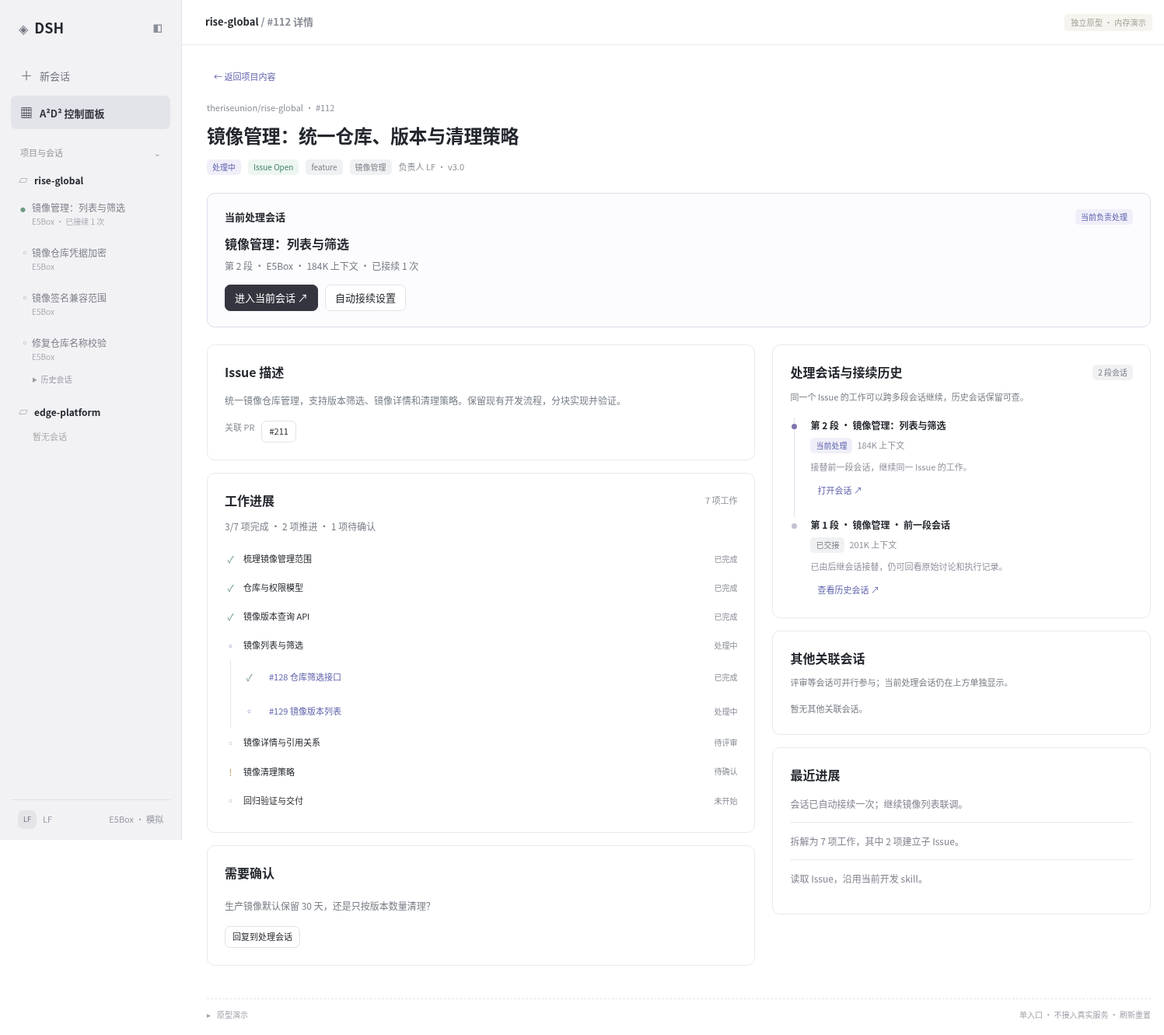
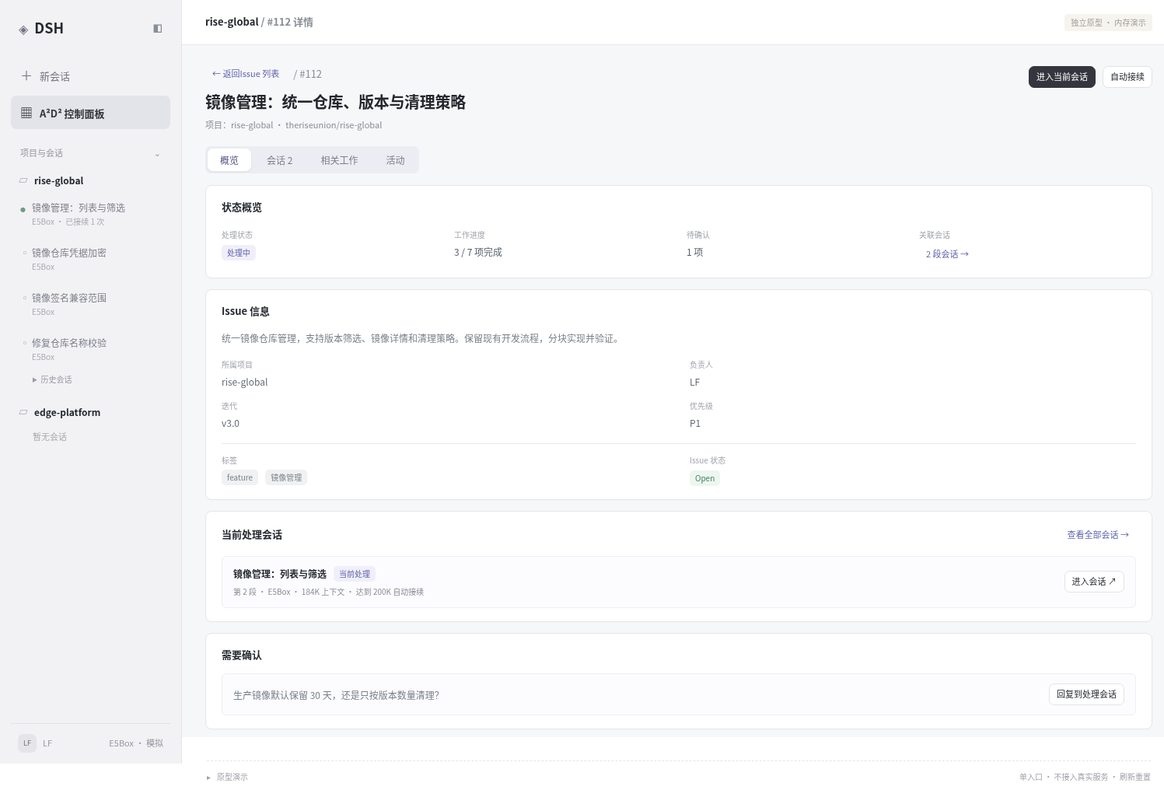
prototype: consolidate Issue details into compact tabbed sections

diff --git a/docs/prototypes/task-interaction-v3-dsh.prototype.html b/docs/prototypes/task-interaction-v3-dsh.prototype.html
@@ -5,7 +5,8 @@
 @media(max-width:1250px){.sidebar{width:205px}.main{margin-left:205px}.panel{padding:24px 24px 0}.inspector{width:340px;margin-left:18px;padding-left:18px}.optional{display:none}.topline{padding:0 24px}.search input{width:235px}.title-cell{min-width:190px}}
 @media(max-width:800px){.sidebar{position:static;width:100%;height:auto;padding:12px 15px;display:block;border-right:0;border-bottom:1px solid var(--line)}.brand{padding:0 2px;font-size:16px}.side-top{display:flex;margin:12px 0 0;gap:5px}.side-top>button{font-size:12px;padding:8px 10px}.side-top .icon-text{width:20px;font-size:14px}.session-nav,.side-label,.side-bottom{display:none}.main{margin:0;min-height:calc(100vh - 100px)}.topline{height:47px;padding:0 17px}.topline .source{display:none}.panel{padding:20px 16px 0}.page-title{margin-bottom:18px}.page-title h1{font-size:19px}.page-title p{font-size:10px;max-width:220px}.tabbar{gap:8px;margin-bottom:18px}.tabs button{padding:6px 15px}.tabbar select{max-width:130px;font-size:11px}.toolbar{padding:12px;gap:9px}.search{justify-content:flex-start;width:100%}.search input{width:100%;flex:1}.summarybar{padding:10px 13px;flex-wrap:wrap}.table-scroll table{min-width:650px}.board{display:block}.inspector{position:fixed;inset:0 0 0 auto;width:min(440px,100%);height:100dvh;max-height:none;margin:0;padding:22px;background:white;z-index:20;border-left:1px solid var(--line);box-shadow:-15px 0 60px #33313c22}.queuebar{align-items:flex-start;flex-wrap:wrap;padding:12px}.queuebar>.row{margin-left:auto}.demo{margin:23px 16px 16px}.chat-top,.task-strip{padding:13px 17px;flex-wrap:wrap}.chat{padding:25px 20px 10px}.composer{padding:0 16px 16px}.chat-top h2{font-size:14px}.toast{left:16px;right:16px;bottom:16px;max-width:none}.project-stats{gap:15px}.dialog form{padding:21px}.task-strip .row{gap:6px}.page-title .between{align-items:flex-start}.project-card{padding:16px}}
 .project-views{display:flex;gap:4px;overflow-x:auto;padding:12px 16px 0;border-bottom:1px solid var(--line);background:#fbfbfd}.project-views button{border:1px solid transparent;border-bottom:0;border-radius:7px 7px 0 0;background:transparent;color:#8b8c98;white-space:nowrap;padding:10px 13px;font-size:12px}.project-views button.active{background:white;color:#3d3e49;border-color:#e5e5eb;box-shadow:0 1px 0 white}.project-views small{margin-left:6px;color:#a5a3ad;font-size:10px}#project-label{font-size:11px;padding:8px 10px;max-width:160px}@media(max-width:800px){.project-views{padding-left:9px}.project-views button{padding:9px 10px}.toolbar .search{flex-wrap:wrap}#project-search{min-width:170px}}
-.issue-page{padding:28px 32px 12px;flex:1}.issue-heading{margin:18px 0 23px}.issue-heading h1{max-width:900px;font-size:24px}.issue-heading .row{margin-top:12px}.issue-layout{display:grid;grid-template-columns:minmax(0,1.45fr) minmax(300px,1fr);gap:22px;align-items:start}.detail-card{border:1px solid var(--line);border-radius:10px;background:white;padding:22px}.detail-card p{font-size:12px;line-height:1.9;white-space:pre-wrap}.current-work{border:1px solid #dedce9;border-radius:10px;background:#fcfbfe;padding:20px 22px;margin-bottom:22px}.current-work .current-name{font-size:16px;font-weight:600;margin:11px 0 6px}.session-timeline{margin-top:16px}.session-entry{position:relative;margin-left:5px;padding:0 0 21px 20px;border-left:1px solid #e4e1ec}.session-entry:before{content:'';position:absolute;left:-4px;top:8px;width:7px;height:7px;border-radius:50%;background:#c5c1d3}.session-entry.current:before{background:#8174ac}.session-entry:last-child{padding-bottom:0;border-left-color:transparent}.session-entry h3{font-size:12px;font-weight:550}.session-entry p{font-size:11px;margin:7px 0;color:#92909d}.session-entry .row{gap:6px}.related-session{border-top:1px solid var(--line);padding-top:12px;margin-top:12px}.issue-description{margin-top:12px;overflow-wrap:anywhere}.issue-history{padding:14px 0;border-bottom:1px solid var(--line);font-size:12px;color:#85828f}.issue-history:last-child{border:0}.issue-actions{display:flex;gap:9px;flex-wrap:wrap;margin-top:14px}@media(max-width:1100px){.issue-layout{grid-template-columns:minmax(0,1.2fr) minmax(280px,1fr)}}@media(max-width:800px){.issue-page{padding:20px 16px 0}.issue-layout{grid-template-columns:1fr}.issue-heading h1{font-size:21px}.current-work,.detail-card{padding:18px}.current-work .between{align-items:flex-start;flex-wrap:wrap}}
+.issue-page{padding:24px 30px 10px;flex:1;background:#f6f7f9}.detail-heading{display:flex;justify-content:space-between;align-items:flex-start;gap:20px;margin-bottom:17px}.detail-heading-main{min-width:0}.detail-heading h1{font-size:20px;line-height:1.5;letter-spacing:-.3px;margin:8px 0 4px}.detail-tools{justify-content:flex-end;flex-shrink:0;padding-top:3px}.detail-tabs{display:flex;gap:4px;width:max-content;max-width:100%;overflow-x:auto;background:#ebedf2;border-radius:7px;padding:3px;margin-bottom:15px}.detail-tabs button{border:0;background:none;color:#7c7f8a;padding:6px 16px;white-space:nowrap;font-size:12px}.detail-tabs button.active{background:white;color:#4d5186;box-shadow:0 1px 3px #363d5215}.detail-content{display:grid;gap:14px}.issue-section{border:1px solid #e4e6eb;border-radius:8px;background:white;padding:17px 20px;box-shadow:0 1px 2px #28313e04}.issue-section h2{font-size:13px;font-weight:620}.issue-section p{font-size:12px;line-height:1.8;color:#79808a;white-space:pre-wrap;overflow-wrap:anywhere}.issue-section label{display:block;font-size:10px;color:#a0a4ac;margin-bottom:4px}.overview-metrics{display:grid;grid-template-columns:repeat(4,1fr);gap:20px;margin-top:17px}.overview-metrics strong{font-size:12px;font-weight:500;color:#555e68}.overview-fields{display:grid;grid-template-columns:1fr 1fr;gap:14px 28px;font-size:12px;color:#656c76;margin-top:16px}.description-line{margin-top:13px}.info-bottom{display:grid;grid-template-columns:1fr 1fr;gap:28px;border-top:1px solid var(--line);padding-top:13px;margin-top:16px}.current-session-line{display:flex;justify-content:space-between;align-items:center;gap:18px;background:#fcfcfe;border:1px solid #eeeeF3;border-radius:6px;padding:12px 14px;margin-top:14px}.current-session-line b{font-size:12px;font-weight:550}.current-session-line small{display:block;font-size:10px;margin-top:5px}.current-session-line>button{flex-shrink:0}.flush-section{padding:0;overflow:hidden}.section-head{padding:16px 20px;border-bottom:1px solid var(--line)}.section-head p{font-size:11px;margin-top:5px}.detail-table td{padding:14px 19px;font-size:12px}.detail-table th{padding:10px 19px}.detail-table .current-row{background:#fbfaff}.detail-table td:last-child{white-space:nowrap}.handoff-summary{margin-top:6px;color:#9691a5;font-size:10px}.handoff-summary summary{cursor:pointer}.handoff-summary p{max-width:680px;margin-top:8px;padding:10px 12px;background:#f3f1f8;border-radius:5px;font-size:11px}.compact-detail .tree{margin-top:12px}.compact-detail .tree-row{border-bottom:1px solid #f1f2f4;padding:10px 0}.compact-detail .tree-children{margin-top:0;margin-bottom:0}@media(max-width:1000px){.detail-heading{flex-wrap:wrap}.detail-tools{justify-content:flex-start;padding:0}}@media(max-width:800px){.issue-page{padding:18px 15px 0}.detail-heading{gap:12px}.detail-heading h1{font-size:18px}.detail-tabs button{padding:6px 12px}.issue-section{padding:15px}.flush-section{padding:0}.overview-metrics{grid-template-columns:1fr 1fr;gap:14px}.overview-fields,.info-bottom{gap:12px}.current-session-line{align-items:flex-start;flex-wrap:wrap;padding:11px}.section-head{padding:15px}.detail-table{min-width:650px}.detail-content{gap:12px}}
+
 </style></head><body><div id="app"></div><dialog id="modal" class="dialog"></dialog><div id="toast" class="toast" role="status" aria-live="polite"></div>
 <script>
 /* Standalone DSH-shell prototype. Single restrained design per LF's reference.
@@ -25,7 +26,7 @@ function initial(){return {serial:300,sourceOnline:true,projects:[{id:'rise',nam
 {id:'s-04',issue:'work-119',project:'rise',name:'镜像签名兼容范围',generation:1,state:'waiting',tokens:42,role:'main',messages:[]},
 {id:'s-05',issue:'work-108',project:'rise',name:'修复仓库名称校验',generation:1,state:'finished',tokens:68,role:'main',messages:[]}
 ],queue:{enabled:false,project:'rise',mine:true,current:null,flow:'当前项目的开发 skill',handled:0}}}
-let state=initial();const ui={view:'panel',tab:'issues',project:'rise',filter:'mine',query:'',inspector:null,issue:null,issueReturn:null,session:'s-02',demo:false,projectView:'mine',projectQuery:'',projectLabel:''};
+let state=initial();const ui={view:'panel',tab:'issues',project:'rise',filter:'mine',query:'',inspector:null,issue:null,issueTab:'overview',issueReturn:null,session:'s-02',demo:false,projectView:'mine',projectQuery:'',projectLabel:''};
 const $=s=>document.querySelector(s),esc=x=>String(x??'').replace(/[&<>"']/g,c=>({'&':'&amp;','<':'&lt;','>':'&gt;','"':'&quot;',"'":'&#39;'}[c]));
 const issue=id=>state.issues.find(x=>x.id===id),project=id=>state.projects.find(x=>x.id===id),session=id=>state.sessions.find(x=>x.id===id),selectedIssue=()=>issue(ui.inspector?.type==='issue'?ui.inspector.id:session(ui.session)?.issue),nextId=p=>p+'-'+(++state.serial);
 const labels={queued:'未开始',running:'处理中',review:'待评审',blocked:'待确认',done:'已完成'},tones={queued:'',running:'purple',review:'purple',blocked:'amber',done:'green'};
@@ -38,7 +39,7 @@ function driveQueue(){const q=state.queue;if(!q.enabled)return;const current=iss
 function rotate(s){if(s.role!=='main'||s.state!=='running')return;const t=issue(s.issue),p=project(s.project);if(!p.auto||s.tokens<p.limit)return;s.state='archived';const checkpoint={goal:t.title,specification:t.description,parts:structuredClone(t.parts),decisions:[...(t.decisions||[])],question:t.question||'',recentMessages:structuredClone(s.messages.slice(-6))};const notes=checkpoint.decisions.length?' 已接受的确认：'+checkpoint.decisions.map(v=>v.replace(/[。；;]+$/,'')).join('；')+'。':'';const recent=checkpoint.recentMessages.filter(m=>m.role==='user'&&!checkpoint.decisions.includes(m.text.trim())).map(m=>m.text.replace(/[。；;]+$/,''));const next={...s,id:nextId('session'),previous:s.id,generation:s.generation+1,tokens:24,state:'running',checkpoint,messages:[],handoff:`已从第 ${s.generation} 段会话接续。${progress(t)}。${notes}${recent.length?' 近期补充：'+recent.join('；')+'。':''} 下一步：${t.question?'继续可推进的工作，保留待确认问题。':'按已确认的范围继续未完成工作。'}`};state.sessions.push(next);t.session=next.id;t.events.push(`上下文达到 ${s.tokens}K，自动接续至第 ${next.generation} 段；工作进展保持不变。`);if(ui.session===s.id)ui.session=next.id;notify('已自动接续，继续同一项工作')}
 let toastTimer;function notify(s){$('#toast').textContent=s;$('#toast').classList.add('show');clearTimeout(toastTimer);toastTimer=setTimeout(()=>$('#toast').classList.remove('show'),3000)}
 function openSession(id){ui.session=id;ui.view='chat';ui.inspector=null;render();window.scrollTo(0,0)}
-function openIssue(id){const t=issue(id);if(!t)return;if(ui.view==='panel')ui.issueReturn={tab:ui.tab,project:t.project};else if(!ui.issueReturn||ui.issueReturn.project!==t.project)ui.issueReturn={tab:'issues',project:t.project};if(ui.project!==t.project){ui.query='';ui.projectQuery='';ui.projectLabel='';ui.projectView='mine'}ui.project=t.project;ui.issue=id;ui.inspector=null;ui.view='issue';render();window.scrollTo(0,0)}
+function openIssue(id){const t=issue(id);if(!t)return;if(ui.view==='panel')ui.issueReturn={tab:ui.tab,project:t.project};else if(!ui.issueReturn||ui.issueReturn.project!==t.project)ui.issueReturn={tab:'issues',project:t.project};if(ui.project!==t.project){ui.query='';ui.projectQuery='';ui.projectLabel='';ui.projectView='mine'}if(ui.issue!==id)ui.issueTab='overview';ui.project=t.project;ui.issue=id;ui.inspector=null;ui.view='issue';render();window.scrollTo(0,0)}
 function sidebar(){return `<aside class="sidebar"><div class="brand"><span><span class="brand-mark">◈</span>DSH</span><span class="muted" style="font-size:13px">◧</span></div><div class="side-top">${btn('<span class="icon-text">＋</span>新会话','new-session')}${btn('<span class="icon-text">▦</span>A²D² 控制面板','panel',ui.view!=='chat'?'active':'')}</div><div class="side-label"><span>项目与会话</span><span>⌄</span></div><nav class="session-nav" aria-label="DSH 项目与会话">${state.projects.map(p=>`<div class="project-group"><div class="project-name"><span class="muted">▱</span>${p.name}</div>${state.sessions.filter(s=>s.project===p.id&&s.state!=='archived').map(s=>`<button class="session-item ${s.state==='running'?'live':''} ${ui.view==='chat'&&ui.session===s.id?'active':''}" data-action="session" data-id="${s.id}"><span class="session-name">${esc(s.name)}</span><small>E5Box${s.generation>1?' · 已接续 '+(s.generation-1)+' 次':''}</small></button>`).join('')||'<div style="padding:10px 28px;color:#aaa;font-size:11px">暂无会话</div>'}${state.sessions.some(s=>s.project===p.id&&s.state==='archived')?`<details class="history"><summary>历史会话</summary>${state.sessions.filter(s=>s.project===p.id&&s.state==='archived').map(s=>btn(esc(s.name)+' · 第 '+s.generation+' 段','session','session-item',false,s.id)).join('')}</details>`:''}</div>`).join('')}</nav><div class="side-bottom"><div class="avatar">LF</div><span>LF</span><span style="margin-left:auto">E5Box · 模拟</span></div></aside>`}
 function filteredIssues(){return state.issues.filter(t=>t.project===ui.project&&(ui.filter==='all'||ui.filter==='mine'&&t.mine&&t.remote!=='Closed'||ui.filter==='attention'&&(t.status==='blocked'||t.sync==='error'))).filter(t=>{let q=ui.query.toLowerCase().trim();if(q.includes('assignee:@me')&&!t.mine)return false;if(q.includes('is:open')&&t.remote==='Closed')return false;q=q.replace(/assignee:@me|is:open|is:issue/g,'').trim();return !q||(t.title+' '+ref(t)+' '+project(t.project).name).toLowerCase().includes(q)})}
 function issueTable(list){return `<div class="table-scroll"><table><thead><tr><th style="width:60px">Issue</th><th>标题 / 处理进展</th><th class="optional">负责人</th><th>Issue 状态</th><th>处理情况</th><th>会话</th></tr></thead><tbody>${list.map(t=>`<tr class="${ui.inspector?.id===t.id?'row-selected':''}"><td class="number">${ref(t)}</td><td class="title-cell">${btn(esc(t.title),'issue','link issue-title',false,t.id)}<div class="issue-sub">${esc(progress(t))}${t.sync==='error'?' · 关闭同步失败':''}</div></td><td class="optional"><span class="muted" style="font-size:11px">${t.mine?'LF':'产品团队'}</span></td><td>${t.number?badge(t.remote,t.remote==='Closed'?'purple':'green'):badge('纯本地')}</td><td>${status(t)}</td><td>${t.session?btn('↗ '+(t.status==='done'?'查看记录':'进入会话'),'session','link session-link',false,t.session):btn('开始处理','start','small',false,t.id)}</td></tr>`).join('')||'<tr><td colspan="6"><div class="empty">没有匹配的工作，可以调整项目或筛选条件。</div></td></tr>'}</tbody></table></div>`}
@@ -52,7 +53,14 @@ function partTree(t){return `<div class="tree">${t.parts.map((p,i)=>`<div class=
 function inspector(){if(!ui.inspector)return '';if(ui.inspector.type==='pr'){const p=state.prs.find(p=>p.number===Number(ui.inspector.id)),t=issue(p.issue);return `<aside class="inspector" aria-label="PR 详情"><div class="inspector-header"><span class="muted">PR #${p.number}</span>${btn('×','close-inspector','icon quiet')}</div><h2>${esc(p.title)}</h2><p>${esc(p.summary)}</p><div class="factgrid"><div><div class="mini-label">检查</div>${badge(p.checks==='passed'?'全部通过':'1 项集成检查失败',p.checks==='passed'?'green':'amber')}</div><div><div class="mini-label">评审</div>${badge(p.review==='approved'?'已批准':'等待评审')}</div></div><div class="inspector-block"><h3>关联工作</h3><div style="margin-top:9px">${btn(ref(t)+' '+esc(t.title),'issue','link',false,t.id)}</div><p style="margin-top:8px">${progress(t)}</p></div><div class="inspector-block"><h3>在 DSH 中继续</h3><p style="margin-top:8px">将 PR 摘要与检查结果带入会话，沿用项目现有评审 skill。</p><div class="actions">${btn(p.checks==='failed'?'进入会话检查失败项':'在会话中评审','review-pr','primary',p.state==='Merged',p.number)}</div></div></aside>`}
 const t=issue(ui.inspector.id),s=session(t.session),p=project(t.project);return `<aside class="inspector" aria-label="Issue 详情"><div class="inspector-header"><span class="muted">${p.name} / ${ref(t)}</span>${btn('×','close-inspector','icon quiet')}</div><h2>${esc(t.title)}</h2><div class="row" style="margin:13px 0">${status(t)}${t.number?badge('Issue '+t.remote,t.remote==='Closed'?'purple':'green'):badge('纯本地')}</div><p>${esc(t.description)}</p><div class="actions">${s?btn('↗ 进入处理会话','session','primary',false,s.id):btn('开始处理','start','primary',false,t.id)}${state.prs.filter(pr=>pr.issue===t.id).map(pr=>btn('PR #'+pr.number,'pr','',false,pr.number)).join('')}</div>${t.sync==='error'||t.sync==='pending'?`<div class="inline-note space">本地工作已验收完成，Issue 关闭${t.sync==='error'?'同步失败':'待同步'}。<br>${btn('重试同步','retry-sync','link small',false,t.id)}</div>`:''}<div class="inspector-block space"><div class="between"><h3>整体进展</h3><small class="muted">${t.parts.length?'7 项工作':'当前工作'}</small></div><p style="margin-top:7px">${progress(t)}</p>${t.parts.length?`<div class="progress-track"><span style="width:${t.parts.filter(p=>p.status==='done').length/t.parts.length*100}%"></span></div>${partTree(t)}`:''}</div>${t.question&&t.status!=='done'?`<div class="inspector-block"><h3>需要确认</h3><p style="margin-top:8px">${esc(t.question)}</p><div class="actions">${btn('回复到会话','answer','small',false,t.id)}</div></div>`:''}<div class="inspector-block"><div class="between"><h3>处理会话</h3>${btn('接续设置','context-settings','link small',false,t.project)}</div>${s?`<div style="margin-top:10px">${btn(esc(s.name),'session','link',false,s.id)}</div><p style="font-size:11px;margin-top:7px">第 ${s.generation} 段 · ${s.tokens}K 上下文<br>${p.auto?'达到 '+p.limit+'K 自动接续':'自动接续已关闭'}</p>`:'<p style="margin-top:8px">开始处理后，关联的 DSH 会话会出现在这里。</p>'}</div><div class="inspector-block"><h3>最近进展</h3><div class="activity">${t.events.slice(-3).reverse().map(e=>`<div>${esc(e)}</div>`).join('')||'<div>尚未开始处理。</div>'}</div></div></aside>`}
 function panel(){return `<div class="topline"><div class="row">${btn('×','return-chat','icon quiet')}<span class="title">A²D² 控制面板</span></div><div class="row"><span class="source">GitHub · E5Box</span><span class="mock">独立原型 · 内存演示</span></div></div><div class="panel"><div class="page-title"><h1>任务</h1><p>查看 Issue、PR 及其关联会话。</p></div><div class="tabbar"><div class="tabs" role="tablist" aria-label="工作对象">${[['issues','Issue'],['prs','PR'],['projects','项目']].map(([k,n])=>`<button role="tab" aria-selected="${ui.tab===k}" data-tab="${k}" class="${ui.tab===k?'active':''}">${n}</button>`).join('')}</div><select id="project-filter" aria-label="当前项目" required>${state.projects.map(p=>`<option value="${p.id}" ${ui.project===p.id?'selected':''}>${p.name}</option>`).join('')}</select></div>${!state.sourceOnline?'<div class="notice">GitHub 来源暂不可用 · 显示最近同步结果。正在进行的本地工作与会话保持不变。</div>':!project(ui.project).connected?'<div class="notice">此项目已断开 GitHub 协同 · 保留已有工作、会话和待同步操作。</div>':''}<div class="board"><section class="board-content">${({issues:issuesPage,prs:prsPage,projects:projectsPage}[ui.tab])()}${queuebar()}</section>${inspector()}</div></div>`}
-function issuePage(){const t=issue(ui.issue),p=project(t.project),current=session(t.session),history=state.sessions.filter(s=>s.issue===t.id&&s.role==='main').sort((a,b)=>b.generation-a.generation),others=state.sessions.filter(s=>s.issue===t.id&&s.role!=='main'),prs=state.prs.filter(pr=>pr.issue===t.id),backLabel={issues:'Issue 列表',prs:'PR 列表',projects:'项目内容'}[ui.issueReturn?.tab]||'工作列表';return `<div class="topline"><span class="title">${p.name} <span class="muted">/ ${ref(t)} 详情</span></span><span class="mock">独立原型 · 内存演示</span></div><div class="issue-page">${btn('← 返回'+backLabel,'issue-back','link small')}<div class="issue-heading"><div class="muted" style="font-size:11px;margin-bottom:7px">${p.repo} · ${ref(t)}</div><h1>${esc(t.title)}</h1><div class="row">${status(t)}${t.number?badge('Issue '+t.remote,t.remote==='Closed'?'purple':'green'):badge('纯本地')}${(t.tags||[]).map(tag=>badge(tag)).join('')}<span class="muted" style="font-size:11px">负责人 ${t.mine?'LF':'产品团队'} · ${esc(t.milestone||'未安排迭代')}</span></div></div><section class="current-work" aria-label="当前处理会话"><div class="between"><h3>${t.status==='done'?'最后处理会话':'当前处理会话'}</h3>${current?badge(current.state==='finished'?'已结束':current.state==='waiting'?'等待确认':'当前负责处理',current.state==='finished'?'':current.state==='waiting'?'amber':'purple'):badge('尚未开始')}</div>${current?`<div class="current-name">${esc(current.name)}</div><p style="font-size:12px">第 ${current.generation} 段 · E5Box · ${current.tokens}K 上下文${current.generation>1?' · 已接续 '+(current.generation-1)+' 次':''}</p><div class="issue-actions">${btn(t.status==='done'?'查看处理记录 ↗':'进入当前会话 ↗','session','primary',false,current.id)}${btn('自动接续设置','context-settings','',false,p.id)}</div>`:`<p class="space">开始处理后，当前会话和后续接替记录都会关联到这个 Issue。</p><div class="issue-actions">${btn('在 DSH 中开始处理','start','primary',false,t.id)}</div>`}</section>${t.sync==='pending'||t.sync==='error'?`<div class="notice">本地工作已验收完成；Issue 关闭${t.sync==='error'?'同步失败':'待同步'}。 ${btn('重试同步','retry-sync','link small',false,t.id)}</div>`:''}<div class="issue-layout"><div class="stack"><section class="detail-card"><h2>Issue 描述</h2><p class="issue-description">${esc(t.description)}</p>${prs.length?`<div class="issue-actions"><span class="muted" style="font-size:11px">关联 PR</span>${prs.map(pr=>btn('#'+pr.number,'pr','small',false,pr.number)).join('')}</div>`:''}</section><section class="detail-card"><div class="between"><h2>工作进展</h2><small class="muted">${t.parts.length?t.parts.length+' 项工作':'当前工作'}</small></div><p style="margin-top:10px">${progress(t)}</p>${t.parts.length?partTree(t):''}</section>${t.question&&t.status!=='done'?`<section class="detail-card"><h2>需要确认</h2><p class="space">${esc(t.question)}</p><div class="issue-actions">${btn('回复到处理会话','answer','small',false,t.id)}</div></section>`:''}</div><div class="stack"><section class="detail-card"><div class="between"><h2>处理会话与接续历史</h2>${badge(history.length+' 段会话')}</div><p style="font-size:11px;margin-top:8px">同一个 Issue 的工作可以跨多段会话继续，历史会话保留可查。</p><div class="session-timeline">${history.map(s=>`<div class="session-entry ${s.id===t.session?'current':''}"><div class="between"><h3>第 ${s.generation} 段 · ${esc(s.name)}</h3></div><div class="row" style="margin-top:7px">${badge(s.state==='archived'?'已交接':s.state==='finished'?'已结束':s.id===t.session?'当前处理':'关联记录',s.id===t.session&&s.state!=='finished'?'purple':'')}<small class="muted">${s.tokens}K 上下文</small></div><p>${s.handoff?esc(s.handoff):s.state==='archived'?'已由后继会话接替，仍可回看原始讨论和执行记录。':s.generation===1?'从这段会话开始处理该 Issue。':'接替前一段会话，继续同一 Issue 的工作。'}</p>${btn(s.state==='archived'?'查看历史会话 ↗':'打开会话 ↗','session','link small',false,s.id)}</div>`).join('')||'<p>尚无处理会话。</p>'}</div></section><section class="detail-card"><h2>其他关联会话</h2><p style="font-size:11px;margin-top:8px">评审等会话可并行参与；当前处理会话仍在上方单独显示。</p>${others.map(s=>`<div class="related-session"><div class="between"><h3>${esc(s.name)}</h3>${badge(s.state==='finished'?'已结束':s.role==='review'?'评审':'关联会话')}</div><div class="issue-actions">${btn('打开会话 ↗','session','link small',false,s.id)}${s.pr?btn('PR #'+s.pr,'pr','link small',false,s.pr):''}</div></div>`).join('')||'<p style="margin-top:13px;font-size:11px">暂无其他关联会话。</p>'}</section><section class="detail-card"><h2>最近进展</h2>${t.events.slice().reverse().map(e=>`<div class="issue-history">${esc(e)}</div>`).join('')||'<p class="space">尚未开始处理。</p>'}</section></div></div></div>`}
+function issuePage(){const t=issue(ui.issue),p=project(t.project),current=session(t.session),history=state.sessions.filter(s=>s.issue===t.id&&s.role==='main').sort((a,b)=>b.generation-a.generation),others=state.sessions.filter(s=>s.issue===t.id&&s.role!=='main'),prs=state.prs.filter(pr=>pr.issue===t.id),backLabel={issues:'Issue 列表',prs:'PR 列表',projects:'项目内容'}[ui.issueReturn?.tab]||'工作列表';const jump=(text,tab)=>`<button type="button" class="link small" data-issue-tab="${tab}">${text}</button>`;const sessionState=s=>s.state==='archived'?'已交接':s.state==='finished'?'已结束':s.state==='waiting'?'等待确认':s.id===t.session?'当前处理':'运行中';const sessionTable=(list,main)=>`<div class="table-scroll"><table class="detail-table"><thead><tr><th>${main?'段次':'用途'}</th><th>会话</th><th>状态</th><th>运行位置</th><th>上下文</th><th></th></tr></thead><tbody>${list.map(s=>`<tr data-session-row="${s.id}" class="${s.id===t.session?'current-row':''}"><td class="muted">${main?'第 '+s.generation+' 段':s.role==='review'?'PR 评审':'关联工作'}</td><td><div>${btn(esc(s.name),'session','link',false,s.id)}</div>${s.handoff?`<details class="handoff-summary"><summary>接续摘要</summary><p>${esc(s.handoff)}</p></details>`:s.state==='archived'?'<small class="muted">已由后继会话接替，历史记录保留。</small>':''}${!main&&s.pr?`<div>${btn('PR #'+s.pr,'pr','link small',false,s.pr)}</div>`:''}</td><td>${badge(sessionState(s),s.id===t.session&&s.state!=='finished'?'purple':s.state==='waiting'?'amber':'')}</td><td class="muted">E5Box</td><td class="muted">${s.tokens}K</td><td>${btn(s.state==='archived'?'查看历史 ↗':'打开会话 ↗','session','small',false,s.id)}</td></tr>`).join('')||'<tr><td colspan="6"><div class="empty">暂无关联会话。</div></td></tr>'}</tbody></table></div>`;
+let body='';
+if(ui.issueTab==='overview'){body=`<section class="issue-section"><h2>状态概览</h2><div class="overview-metrics"><div><label>处理状态</label>${status(t)}</div><div><label>工作进度</label><strong>${t.parts.length?t.parts.filter(x=>x.status==='done').length+' / '+t.parts.length+' 项完成':labels[t.status]}</strong></div><div><label>待确认</label><strong>${t.question&&t.status!=='done'?'1 项':'无'}</strong></div><div><label>关联会话</label>${jump(history.length+others.length+' 段会话 →','sessions')}</div></div></section><section class="issue-section"><h2>Issue 信息</h2><p class="description-line">${esc(t.description)}</p><div class="overview-fields"><div><label>所属项目</label><span>${p.name}</span></div><div><label>负责人</label><span>${t.mine?'LF':'产品团队'}</span></div><div><label>迭代</label><span>${esc(t.milestone||'未安排')}</span></div><div><label>优先级</label><span>${esc(t.priority||'未设置')}</span></div></div><div class="info-bottom"><div><label>标签</label><div class="row">${(t.tags||[]).map(tag=>badge(tag)).join('')||'<span class="muted">未设置</span>'}</div></div><div><label>Issue 状态</label>${t.number?badge(t.remote,t.remote==='Closed'?'purple':'green'):badge('纯本地')}</div></div></section><section class="issue-section"><div class="between"><h2>${t.status==='done'?'最后处理会话':'当前处理会话'}</h2>${jump('查看全部会话 →','sessions')}</div>${current?`<div class="current-session-line"><div><div class="row"><b>${esc(current.name)}</b>${badge(sessionState(current),current.state==='finished'?'':'purple')}</div><small class="muted">第 ${current.generation} 段 · E5Box · ${current.tokens}K 上下文 · ${p.auto?'达到 '+p.limit+'K 自动接续':'自动接续已关闭'}</small></div>${btn(t.status==='done'?'查看记录 ↗':'进入会话 ↗','session','small',false,current.id)}</div>`:'<p class="description-line">尚未开始处理，启动后会在这里显示当前会话。</p>'}</section>${t.question&&t.status!=='done'?`<section class="issue-section"><h2>需要确认</h2><div class="current-session-line"><p>${esc(t.question)}</p>${btn('回复到处理会话','answer','small',false,t.id)}</div></section>`:''}`}
+else if(ui.issueTab==='sessions'){body=`<section class="issue-section flush-section"><div class="section-head between"><div><h2>处理会话与接续历史 <span class="muted">(${history.length})</span></h2><p>同一个 Issue 按会话段次接续，当前处理入口随接任更新。</p></div>${btn('自动接续设置','context-settings','small',false,p.id)}</div>${sessionTable(history,true)}</section><section class="issue-section flush-section"><div class="section-head"><h2>其他关联会话 <span class="muted">(${others.length})</span></h2><p>评审等会话单独关联，不改变当前处理会话。</p></div>${sessionTable(others,false)}</section>`}
+else if(ui.issueTab==='related'){body=`<section class="issue-section"><div class="between"><h2>工作拆解 <span class="muted">(${t.parts.length})</span></h2><small class="muted">${progress(t)}</small></div>${t.parts.length?partTree(t):'<p class="description-line">尚无独立拆分的工作。</p>'}</section><section class="issue-section flush-section"><div class="section-head"><h2>关联 PR <span class="muted">(${prs.length})</span></h2></div><div class="table-scroll"><table class="detail-table"><thead><tr><th>PR</th><th>标题</th><th>检查</th><th>评审</th><th>状态</th></tr></thead><tbody>${prs.map(pr=>`<tr><td>${btn('#'+pr.number,'pr','link',false,pr.number)}</td><td>${esc(pr.title)}</td><td>${badge(pr.checks==='passed'?'通过':'1 项失败',pr.checks==='passed'?'green':'amber')}</td><td>${badge(pr.review==='approved'?'已批准':'待评审')}</td><td>${badge(pr.state)}</td></tr>`).join('')||'<tr><td colspan="5"><div class="empty">暂无关联 PR。</div></td></tr>'}</tbody></table></div></section>`}
+else{body=`<section class="issue-section flush-section"><div class="section-head"><h2>活动记录</h2><p>按最近发生排序，保留工作进展、确认与接续记录。</p></div><div class="table-scroll"><table class="detail-table"><thead><tr><th style="width:80px">顺序</th><th>记录</th></tr></thead><tbody>${t.events.map((text,i)=>({text,n:i+1})).reverse().map(e=>`<tr><td class="muted">${e.n}</td><td>${esc(e.text)}</td></tr>`).join('')||'<tr><td colspan="2"><div class="empty">暂无活动记录。</div></td></tr>'}</tbody></table></div></section>`}
+return `<div class="topline"><span class="title">${p.name} <span class="muted">/ ${ref(t)} 详情</span></span><span class="mock">独立原型 · 内存演示</span></div><div class="issue-page compact-detail"><header class="detail-heading"><div class="detail-heading-main"><div class="row">${btn('← 返回'+backLabel,'issue-back','link small')}<span class="muted">/ ${ref(t)}</span></div><h1>${esc(t.title)}</h1><small class="muted">项目：${p.name} · ${p.repo}</small></div><div class="row detail-tools">${current?btn(t.status==='done'?'查看处理记录':'进入当前会话','session','primary small',false,current.id):btn('开始处理','start','primary small',false,t.id)}${btn('自动接续','context-settings','small',false,p.id)}</div></header><nav class="detail-tabs" role="tablist" aria-label="Issue 详情标签">${[['overview','概览'],['sessions','会话 '+(history.length+others.length)],['related','相关工作'],['activity','活动']].map(([key,text])=>`<button type="button" role="tab" aria-selected="${ui.issueTab===key}" data-issue-tab="${key}" class="${ui.issueTab===key?'active':''}">${text}</button>`).join('')}</nav>${t.sync==='pending'||t.sync==='error'?`<div class="notice">本地工作已完成，Issue 关闭${t.sync==='error'?'同步失败':'待同步'}。 ${btn('重试同步','retry-sync','link small',false,t.id)}</div>`:''}<div class="detail-content" role="tabpanel" aria-label="${{overview:'概览',sessions:'会话',related:'相关工作',activity:'活动'}[ui.issueTab]}">${body}</div></div>`}
+
 function chat(){const s=session(ui.session);if(!s)return `<div class="panel"><h1>DSH 会话</h1><p class="space">从左侧选择会话，或开始一个新会话。</p></div>`;const t=issue(s.issue),p=project(s.project);return `<div class="topline"><span class="title">${p.name} <span class="muted">/ 会话</span></span><div class="row"><span class="source">E5Box · DSH native</span><span class="mock">会话界面示意</span></div></div><div class="chat-top"><div><h2>${esc(s.name)}</h2><small class="muted">${s.state==='archived'?'历史会话 · 已接续到后继':s.role==='review'?'PR 评审会话':'沿用当前项目 skill'} · 第 ${s.generation} 段</small></div>${btn(s.tokens+'K / '+p.limit+'K · '+(p.auto?'自动接续':'手动接续'),'context-settings','small',false,p.id)}</div>${t?`<div class="task-strip"><div class="row">${btn(ref(t)+' '+esc(t.title),'chat-issue','link',false,t.id)}${status(t)}</div>${btn(progress(t)+' ↗','chat-issue','link small',false,t.id)}</div>`:''}<div class="chat">${s.handoff?`<div class="handoff-note"><b>已接续当前工作</b><p style="margin-top:7px">${esc(s.handoff)}</p></div>`:''}<div class="message user"><div class="message-header"><div class="avatar">LF</div><span>LF</span></div><div class="message-body">${esc(t?'按项目现有的 skill 处理 '+ref(t)+'，有需要我确认的地方再告诉我。':'在这个项目中开始工作，继续使用现有 skill。')}</div></div><div class="message"><div class="message-header"><div class="avatar" style="background:#eeedf7;color:#8a83a9">◈</div><span>Assistant</span><span style="margin-left:auto">${s.state==='running'?'工作中':'已有记录'}</span></div><div class="message-body">${esc(s.role==='review'?'已关联 PR，将检查变更与失败项，并把评审结论留在当前会话。':t?.parts.length?'已整理为 '+t.parts.length+' 项工作。'+progress(t)+'。\n\n'+(t.status==='done'?'这项工作已验收完成，处理记录已保留。':t.question?'有一处需要确认，其余工作可以继续推进。':'继续按已确认的范围推进，展开工作可查看每一项进展。'):t?.status==='review'?'实现已提交，等待评审结果。关联 PR 与处理进展可以从上方工作入口查看。':t?.status==='blocked'?'当前有一项范围需要确认，回复后可以继续。':t?.status==='done'?'这项工作已经验收完成，处理记录已保留。':'已接收工作，将按项目现有开发流程继续。')}</div>${t?.parts.length?`<div class="toolbox"><div class="between"><span>✓ 最近执行</span><span>结果已记录</span></div><code>检查镜像列表与仓库筛选的集成结果</code><div style="margin-top:10px">${btn('查看 7 项工作及子 Issue →','chat-issue','link small',false,t.id)}</div></div>`:''}</div>${s.messages.map(m=>`<div class="message ${m.role==='user'?'user':''}"><div class="message-header"><div class="avatar">${m.role==='user'?'LF':'◈'}</div>${m.role==='user'?'LF':'Assistant'}</div><div class="message-body">${esc(m.text)}</div></div>`).join('')}</div><div class="composer"><form id="chat-form" class="composer-box"><textarea id="chat-input" name="message" aria-label="发送给当前会话" placeholder="继续对话，或补充当前工作的要求…" ${s.state==='archived'?'disabled':''}></textarea><div class="composer-foot"><span>DSH native · 当前项目 · ${s.state==='archived'?'历史只读':'仅模拟消息'}</span><div class="row">${t?btn('当前进度','ask-progress','quiet small',s.state==='archived'):''}<button class="primary small" type="submit" ${s.state==='archived'?'disabled':''}>发送 ↑</button></div></div></form></div>`}
 function demo(){return `<details class="demo" id="demo" ${ui.demo?'open':''}><summary>原型演示<span style="margin-left:auto">单入口 · 不接入真实服务 · 刷新重置</span></summary><div class="demo-buttons">${btn('收到一条新 Issue','demo-new')}${btn('模拟上下文增长 +30K','demo-context')}${btn('收到当前工作验收通过','demo-complete')}${btn(state.sourceOnline?'模拟来源不可用':'恢复来源连接','demo-network')}${btn('恢复初始示例','demo-reset')}</div><p>这些按钮用于模拟事件；日常操作仍从 Issue、PR、项目及 DSH 会话进入。工作完成须有真实验收，本原型仅注入验收已通过的结果。</p></details>`}
 function render(){const focus=document.activeElement?.id,pos=document.activeElement?.selectionStart;$('#app').innerHTML=sidebar()+`<main class="main">${ui.view==='panel'?panel():ui.view==='issue'?issuePage():chat()}${demo()}</main>`;$('#demo').addEventListener('toggle',e=>ui.demo=e.target.open);if(['issue-search','project-search'].includes(focus)){const input=document.getElementById(focus);input?.focus();input?.setSelectionRange(pos,pos)}}
@@ -80,9 +88,9 @@ const handlers={
 'demo-context':()=>{const t=activeWork(),s=session(t?.session);if(!s||s.state!=='running'){notify('请先选择一个正在处理的工作会话');return}s.tokens+=30;rotate(s);render();if(s.state!=='archived')notify('上下文已增加到 '+s.tokens+'K，尚未触发接续')},
 'demo-complete':()=>{const t=activeWork();if(!t||t.status!=='running'){notify('当前没有正在处理的工作');return}t.status='done';t.question='';t.parts.forEach(p=>{p.status='done';p.children?.forEach(c=>c.status='done')});state.sessions.filter(s=>s.issue===t.id&&s.state!=='archived').forEach(s=>s.state='finished');t.sync=t.number?(state.sourceOnline&&project(t.project).connected?'pending':'error'):null;t.events.push('模拟收到验收通过：工作完成，处理会话收口。');if(state.queue.enabled&&state.queue.current===t.id)state.queue.handled++;driveQueue();render();notify(ref(t)+' 已完成'+(state.queue.enabled?'，继续检查下一项工作':''))},
 'demo-new':()=>{const p=project(ui.project);if(!state.sourceOnline||!p.connected){notify('来源不可用，暂不能收到新的远端 Issue');return}const n=++state.serial;state.issues.push({id:'work-new-'+n,number:n,project:p.id,title:'修复镜像标签筛选结果不一致',mine:true,remote:'Open',status:'queued',session:null,sync:'synced',pr:null,description:'模拟从既定来源收到的一项新 Bug。',tags:['bug'],milestone:p.milestone,priority:'P1',parts:[],events:['从来源列表发现新 Issue。']});driveQueue();render();notify('发现一条新 Issue，已按规则加入工作列表')},
-'demo-reset':()=>{state=initial();Object.assign(ui,{view:'panel',tab:'issues',project:'rise',filter:'mine',query:'',inspector:null,issue:null,issueReturn:null,session:'s-02',projectView:'mine',projectQuery:'',projectLabel:''});render();notify('已恢复初始示例')},'close-modal':closeModal
+'demo-reset':()=>{state=initial();Object.assign(ui,{view:'panel',tab:'issues',project:'rise',filter:'mine',query:'',inspector:null,issue:null,issueTab:'overview',issueReturn:null,session:'s-02',projectView:'mine',projectQuery:'',projectLabel:''});render();notify('已恢复初始示例')},'close-modal':closeModal
 };
-document.addEventListener('click',e=>{const b=e.target.closest('button');if(!b||b.disabled)return;if(b.dataset.tab){ui.tab=b.dataset.tab;ui.filter='mine';ui.inspector=null;ui.projectView='mine';ui.projectQuery='';ui.projectLabel='';render()}else if(b.dataset.projectView){ui.projectView=b.dataset.projectView;ui.inspector=null;render()}else if(b.dataset.filter){ui.filter=b.dataset.filter;render()}else if(b.dataset.action)handlers[b.dataset.action]?.(b.dataset.id)});
+document.addEventListener('click',e=>{const b=e.target.closest('button');if(!b||b.disabled)return;if(b.dataset.tab){ui.tab=b.dataset.tab;ui.filter='mine';ui.inspector=null;ui.projectView='mine';ui.projectQuery='';ui.projectLabel='';render()}else if(b.dataset.issueTab){ui.issueTab=b.dataset.issueTab;render();window.scrollTo(0,0)}else if(b.dataset.projectView){ui.projectView=b.dataset.projectView;ui.inspector=null;render()}else if(b.dataset.filter){ui.filter=b.dataset.filter;render()}else if(b.dataset.action)handlers[b.dataset.action]?.(b.dataset.id)});
 document.addEventListener('input',e=>{if(e.target.id==='issue-search'){ui.query=e.target.value;render()}if(e.target.id==='project-search'){ui.projectQuery=e.target.value;render()}});
 document.addEventListener('change',e=>{if(e.target.id==='project-filter'){if(!project(e.target.value))return;ui.project=e.target.value;ui.query='';ui.projectView='mine';ui.projectQuery='';ui.projectLabel='';ui.inspector=null;render()}if(e.target.id==='project-label'){ui.projectLabel=e.target.value;render()}});
 document.addEventListener('submit',e=>{if(e.target.id==='dialog-form'){e.preventDefault();try{submitHandler?.(Object.fromEntries(new FormData(e.target)))}catch(err){$('#form-error').textContent=err.message}}if(e.target.id==='chat-form'){e.preventDefault();const text=$('#chat-input').value.trim(),s=session(ui.session);if(!text||s.state==='archived')return;s.messages.push({role:'user',text},{role:'assistant',text:'已记录这条补充说明。此处仅模拟 DSH 对话，不调用真实模型。'});render();notify('消息已记录在当前模拟会话')}});

diff --git a/docs/prototypes/task-interaction-v3-dsh.README.md b/docs/prototypes/task-interaction-v3-dsh.README.md
@@ -11,7 +11,8 @@
 - 左侧保留项目与 DSH 会话；新增的产品入口只有“A²D² 控制面板”。
 - 主导航只有 **Issue / PR / 项目**。领域身份、执行占用等留在行为约束里，不成为用户必须操作的栏目。
 - Issue 列表同时显示外部 Open/Closed 与实际处理进展，可直接进入关联会话。
-- 点击 Issue 进入独立详情页：展示描述、当前进展、待确认事项；顶部突出当前处理会话，按接续顺序保留多段历史会话。评审等其他关联会话独立展示。
+- 点击 Issue 进入独立详情页，参考 LF 提供的资源详情布局：顶部标题与操作，下面是“概览 / 会话 / 相关工作 / 活动”标签。默认概览使用全宽纵向分区，避免双栏卡片散布。
+- 概览只展示状态、Issue 信息、当前会话摘要及待确认事项；完整接续历史与其他关联会话放在“会话”标签；工作拆解与 PR 放在“相关工作”；事件放在“活动”。
 - 项目下拉始终选择一个具体项目，没有“所有项目”选项；Issue、PR、项目内容都限定在该项目内。
 - PR 连接对应 Issue 和评审会话。“项目”页直接展示当前项目的视图标签及内容表格，不再展示项目清单。
 - 项目视图包括“分配给我的任务、当前迭代、待处理、下一迭代、所有任务”；每个视图切换对应数据。表格包含标签、状态、负责人、迭代、优先级与关联会话，并支持标签和搜索组合筛选。
@@ -20,8 +21,8 @@
 
 ## 建议体验顺序
 
-1. **第一屏**：查看 Issue 列表与左侧既有会话。点击 #112 镜像管理，进入独立详情页。顶部进入当前处理会话，右侧回看第 1、2 段接续历史；左侧查看 Issue 描述与 7 项工作。返回按钮保留原项目及视图标签。
-2. **继续在会话里工作**：点击“进入处理会话”。会话顶部只增加关联 Issue、进展摘要与上下文接续入口；仍通过 DSH 对话补充要求。
+1. **第一屏**：查看 Issue 列表与左侧既有会话。点击 #112 镜像管理，默认进入紧凑概览，纵向查看状态、Issue 信息与当前会话。“会话”标签查看第 1、2 段接续记录；“相关工作”查看 7 项工作及子 Issue、PR；“活动”查看事件。返回按钮保留原项目及视图标签。
+2. **继续在会话里工作**：点击标题右侧“进入当前会话”。会话顶部只增加关联 Issue、进展摘要与上下文接续入口；仍通过 DSH 对话补充要求。
 3. **自动接续**：在 #112 详情页回复清理策略；进入会话，将接续阈值设为 200K 或 300K。展开底部“原型演示”，模拟上下文增长。达到阈值后换到后继，摘要中保留刚才的具体决定，旧会话保留在历史中。
 4. **持续处理**：回控制面板，点击列表下方“持续处理…”，选择项目范围并沿用现有开发 skill。已有处理会话会被复用；模拟收到验收通过后接下一项。暂停只停止接新工作。
 5. **PR 和项目**：PR #211 展示检查失败，点击进入关联评审会话。选定 rise-global 后打开“项目”，直接看到项目内容；切换“v3.0 / 待处理 / v3.1 / 所有任务”标签，查看各自对应的行。标签筛选选 bug，再搜索 #114，可缩小到单项工作。切换 edge-platform 后，只显示该项目的内容和 v2.1 / v2.2 视图；来源设置位于项目内容表格上方。
@@ -56,6 +57,10 @@
 | 其他关联会话（最新复验） | 从 PR #211 创建评审 session-301，详情中单列为其他关联会话；主处理仍是 s-02 |
 | 接替后的详情（最新复验） | 注入上下文增长后，当前更新为 session-302 / 第 3 段；前两段归档，具体清理决定保留；详情显示三段主处理历史和一条评审会话 |
 | 完成后的详情（最新复验） | 验收完成后顶部显示“最后处理会话”，主处理和评审会话均为 finished；队列下一项 #114 显示自己的 session-303 |
+| 紧凑详情标签（本次复验） | 默认只显示概览四个全宽分区；切换会话、相关工作、活动均保留同一 Issue；换到另一个 Issue 默认回概览 |
+| 会话表格（本次复验） | 初始两段主处理会话，创建评审后单列一项；历史会话只读；接续后显示三段主处理和一项评审，当前指针为 session-302；接续摘要可展开且保留具体决定 |
+| 相关工作与活动（本次复验） | 7 项工作及 2 项子 Issue 可见，PR #211 可进入评审；活动表显示具体确认与接续事件，共 5 条 |
+| 返回与窄屏（本次复验） | 从项目 v3.1 进入 #119，返回后保留 projects/next/rise；390px 下概览和会话标签无页面横向溢出 |
 | 隔离 | 浏览器错误列表为空；网络记录仅有 file: HTML 文档加载，没有 HTTP 请求 |
 
 只读复核发现并修复了三个实际边界问题：已有子 Issue 重复接活、后继接续缺少具体决定、演示事件误作用于其他项目的队列工作。之后完成浏览器复验与独立复核。项目筛选、完成后同工作会话收口、表单按钮类型及动态进展文案也已修正。
@@ -65,19 +70,22 @@
 | 文件 | 重点 |
 | --- | --- |
 | [01 Issue 控制面板](../artifacts/task-interaction-v3-dsh/01-issue-panel.png) | DSH 外壳、单入口、Issue 列表与关联会话 |
-| [02 Issue 详情](../artifacts/task-interaction-v3-dsh/02-issue-progress.png) | 独立页面、当前处理会话、描述与接续历史 |
+| [02 Issue 概览](../artifacts/task-interaction-v3-dsh/02-issue-progress.png) | 参考图式纵向分区：状态、Issue 信息、当前会话和待确认 |
 | [03 DSH 会话](../artifacts/task-interaction-v3-dsh/03-dsh-session.png) | 会话保持工作中心，上方连接 Issue 与进展 |
 | [04 接续设置](../artifacts/task-interaction-v3-dsh/04-context-settings.png) | 200K / 300K 等可配置阈值 |
 | [05 接续后的会话](../artifacts/task-interaction-v3-dsh/05-session-continued.png) | 具体决定进入接续摘要，旧会话保留 |
 | [06 持续处理](../artifacts/task-interaction-v3-dsh/06-continuous-processing.png) | 前项本地完成，下一项继续；外部失败单独显示 |
 | [07 PR 面板](../artifacts/task-interaction-v3-dsh/07-pr-panel.png) | 检查结果、关联 Issue、评审会话入口 |
 | [08 项目内容](../artifacts/task-interaction-v3-dsh/08-project-panel.png) | 选定项目后的视图标签、标签字段和对应工作数据 |
-| [09 窄屏详情](../artifacts/task-interaction-v3-dsh/09-mobile-progress.png) | 小屏独立详情、当前会话和接续历史 |
+| [09 窄屏详情](../artifacts/task-interaction-v3-dsh/09-mobile-progress.png) | 小屏纵向概览与标签入口 |
 | [10 项目迭代视图](../artifacts/task-interaction-v3-dsh/10-project-view-data.png) | 切换至 v3.1，表格展示对应两项内容 |
-| [11 多会话接续历史](../artifacts/task-interaction-v3-dsh/11-issue-session-history.png) | 当前第 3 段、前两段历史、单独关联的 PR 评审会话 |
+| [11 会话标签](../artifacts/task-interaction-v3-dsh/11-issue-session-history.png) | 用表格展示当前第 3 段、前两段历史；评审会话单独列出 |
+| [12 相关工作标签](../artifacts/task-interaction-v3-dsh/12-issue-related-work.png) | 工作拆解、子 Issue 和关联 PR，按分区纵向排列 |
 
 ## 原型边界
 
 本稿验证入口、信息组织和跨对象跳转。DSH 会话 UI 是独立示意，真实宿主布局与公开 API 尚未接入；上下文增长、验收、轮询和模型回复没有真实执行。持续处理当前为串行示意，skill 选择只记录规则。子 Issue 只示范既有关联与回到父工作，不提供完整的远端新建/编辑能力。权限、实际模型窗口、调度公平性、跨运行实例互斥和持久恢复仍需正式实现契约。
 
 本稿及后续修订只涉及独立 HTML、说明与截图。上一份领域模型演示原型保持不变，提交 `b8bfe3f` 可用于对照；最新修订按 LF 的补充反馈固定单项目选择，将“项目”页改为项目内视图与对应内容，并将 Issue 打开方式改为独立详情页，明确展示当前处理会话、多段接续历史和其他关联会话。
+
+最新布局修订仅调整 Issue 详情的信息组织：移除分散双栏，采用标题操作区、详情标签和全宽纵向分区；原有单项目、关联会话与接续规则不变。
